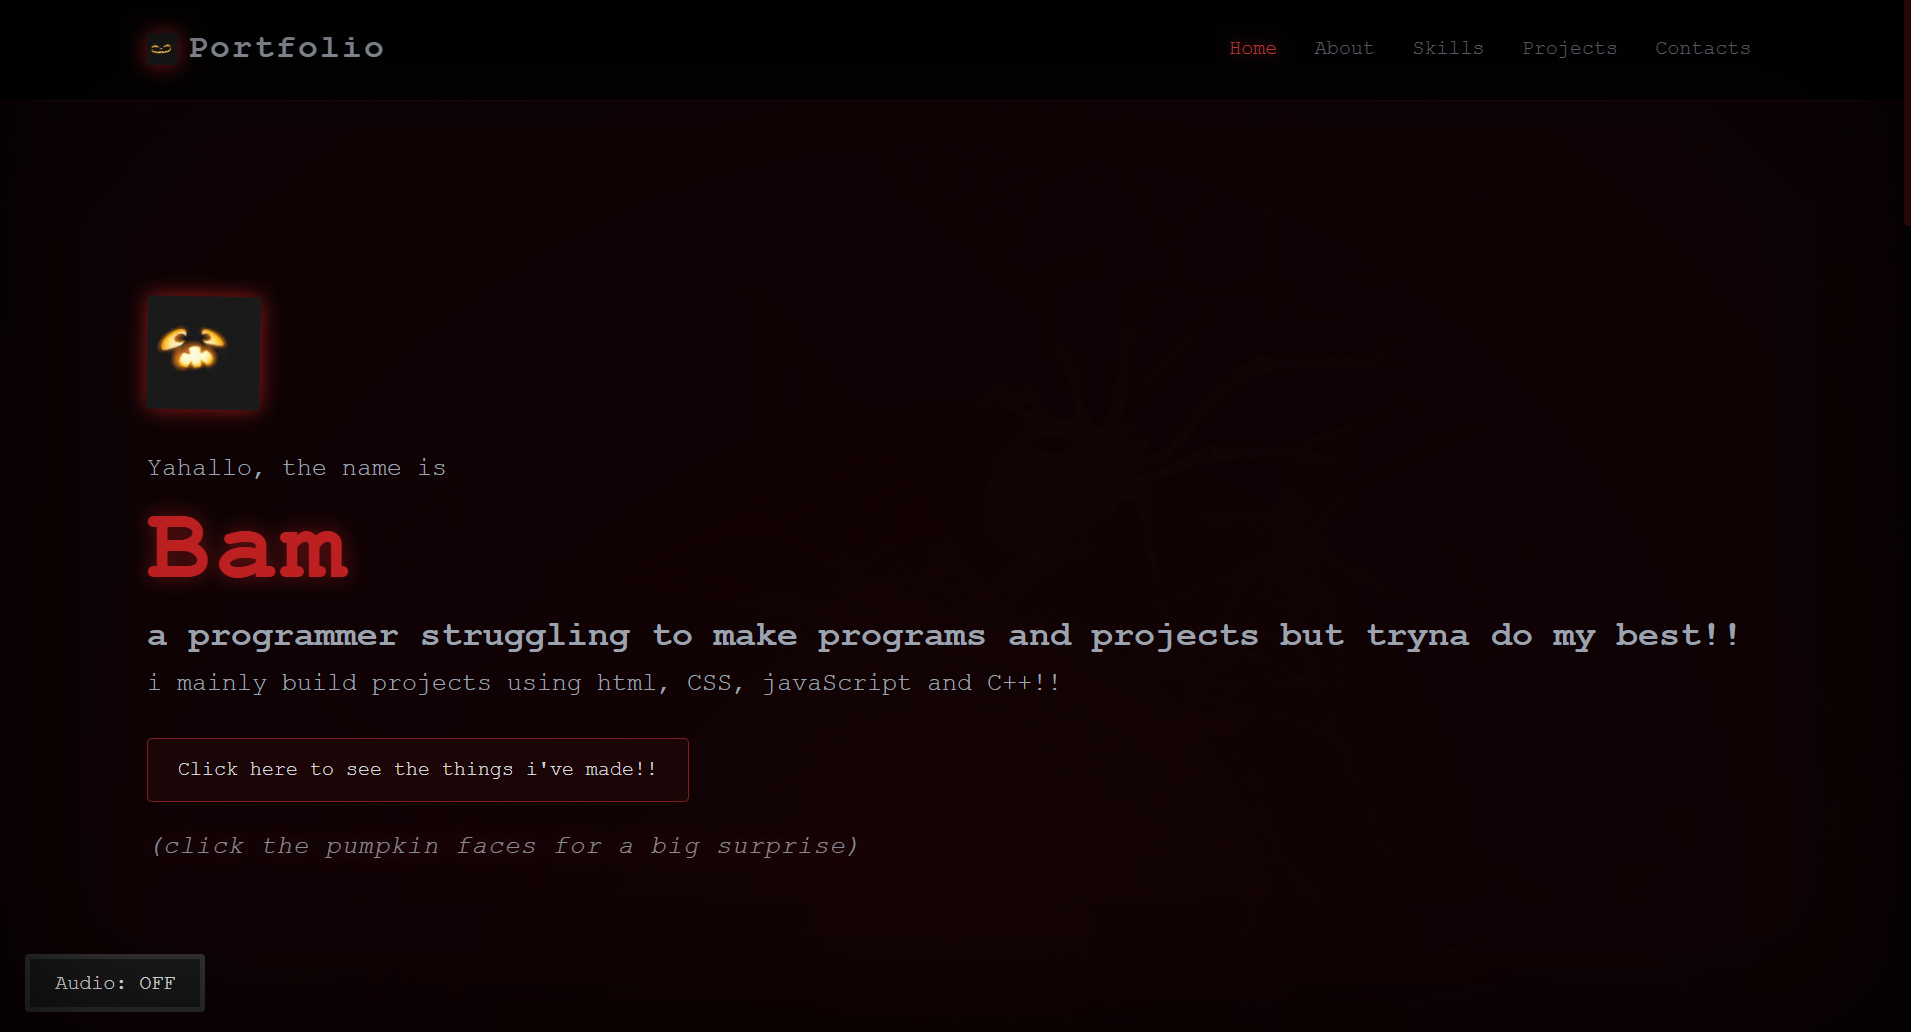
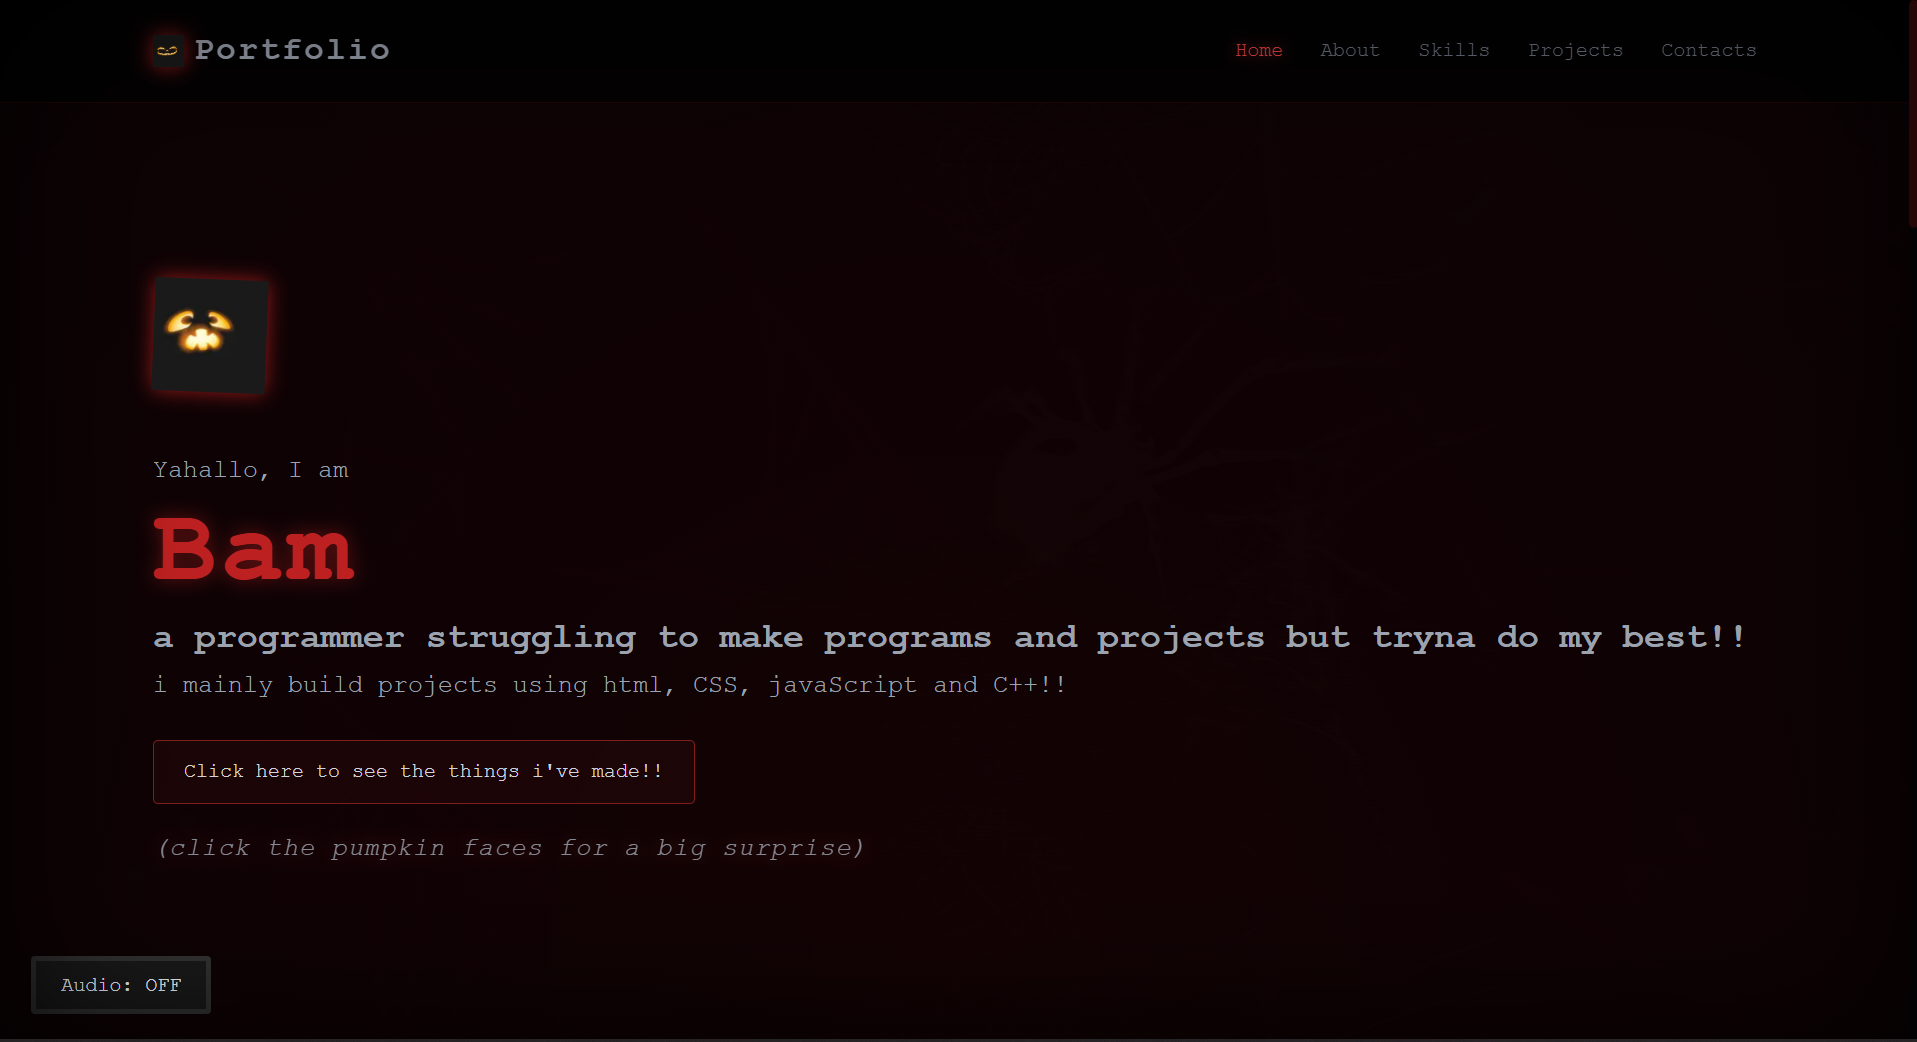
readme changes

diff --git a/index.html b/index.html
@@ -92,6 +92,7 @@
                     <div class="project-tech">
                         <span>C++</span>
                         <span>Raylib</span>
+                        <span>Makefile</span>
                     </div>
                     <a href="https://github.com/th25thbam/tictactoe" target="_blank" rel="noopener noreferrer" class="project-link">View Project</a>
                 </article>

diff --git a/README.md b/README.md
@@ -7,10 +7,11 @@ A clean, dark spooky themed portfolio website built to display information about
 ![Preview](images/image.png)
 ![Preview](images/image1.png)
 ## Features
-1. Smooth Navigation
-2. Interactive Links
-3. Projects card
-4. Spooky Audio
+1. Smooth navigation using html and javascript
+2. Interactive Links to access projects
+3. Projects card that displays information about the projects and are linked with github repository
+4. Backgrounds and colors used to make the portfolio look spooky and scary
+5. Audios that makes the portfolio immersive and spooky 
 
 ## Technologies and Tools used
 * **HTML5** - for page structure and content layout.
@@ -20,7 +21,8 @@ A clean, dark spooky themed portfolio website built to display information about
 ## How to try it
 1. Clone this repository
 2. Open project folder in code editor (VS Code preferably)
-3. [https://demo-portfolio-delta-gules.vercel.app/]
+3. Host locally using the Live Server extension and view the website on local host
+4. Alternatively we can try the online hosted demo link: https://demo-portfolio-delta-gules.vercel.app/
 
 ## Inspiration
 This is a project i've always wanted to try after i would feel confident in my ability to write HTML and CSS and I built this project as a way to test my coding and web development skills and to actually start web development instead of being stuck in the tutorial hell.
